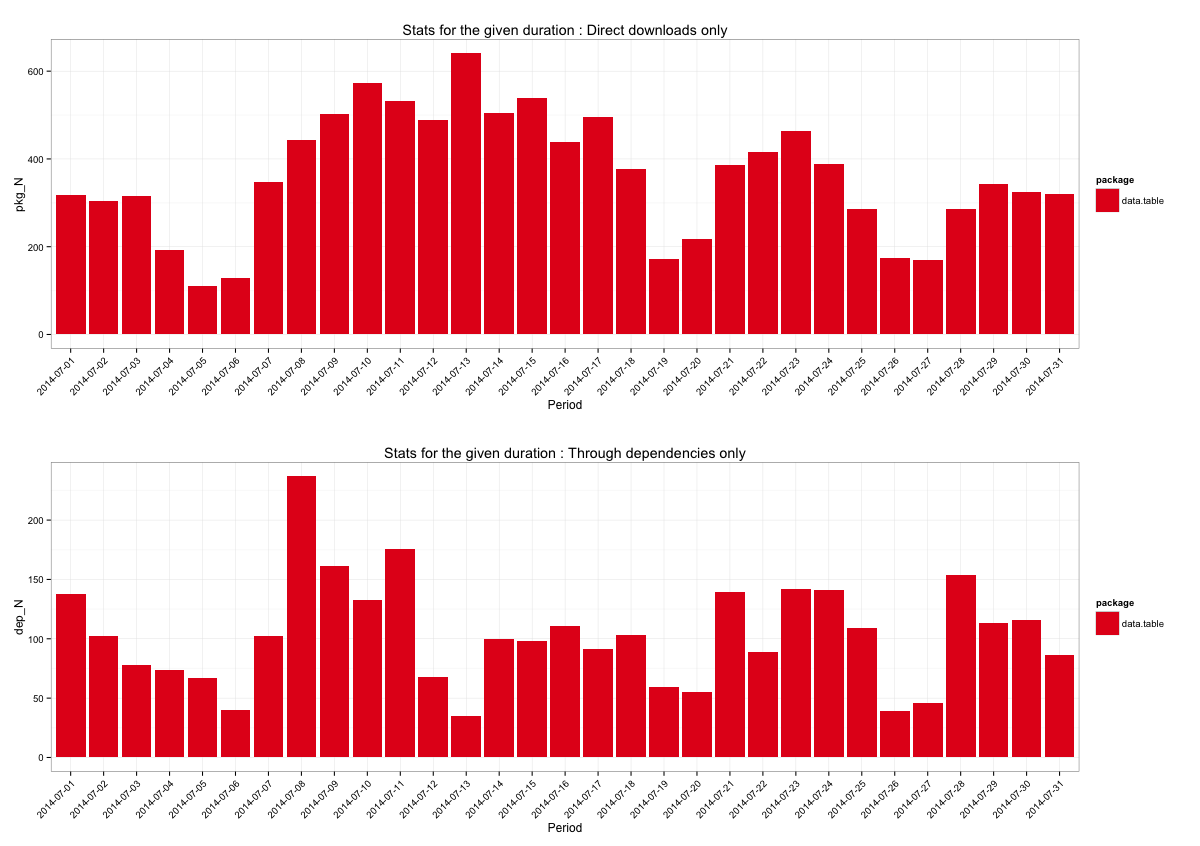
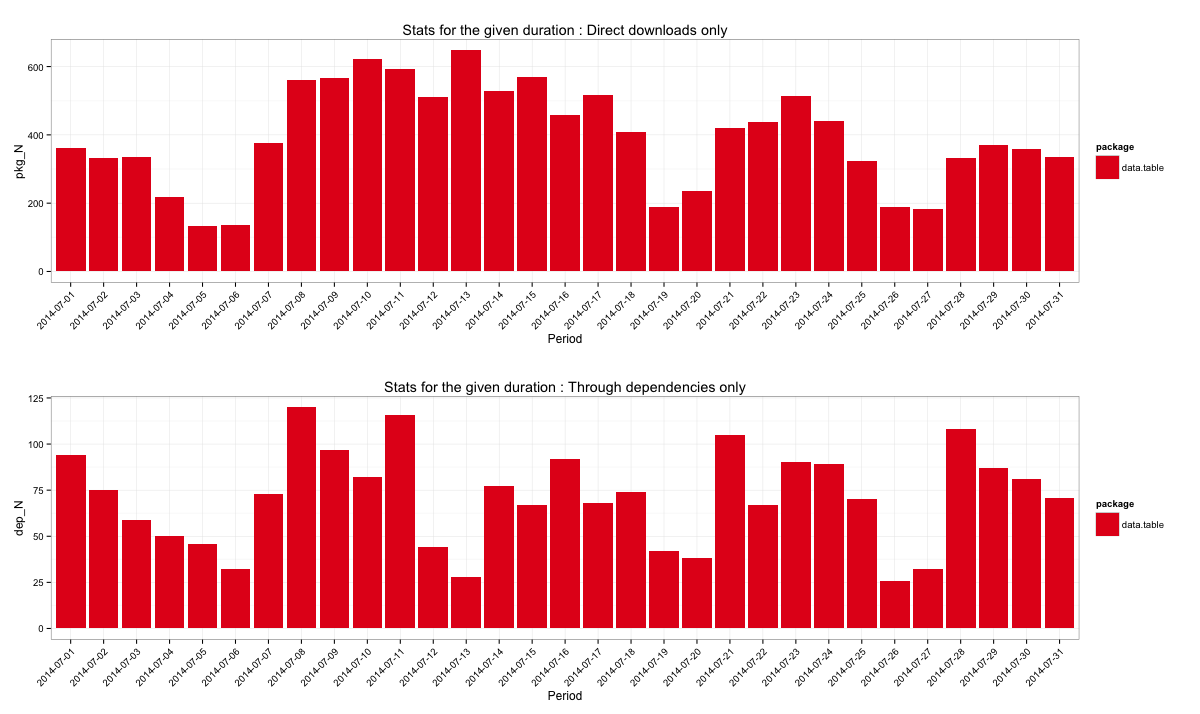
Updated examples

diff --git a/README.md b/README.md
@@ -63,37 +63,37 @@ Have a look at `?stats_logs` for more info. Let's get the *daily* download stats
 ```R
 dt_s = stats_logs(dt, type="daily")
 #        package        key tot_N dep_N
-#  1: data.table 2014-07-01   456   138
-#  2: data.table 2014-07-02   406   102
-#  3: data.table 2014-07-03   393    78
-#  4: data.table 2014-07-04   267    74
-#  5: data.table 2014-07-05   178    67
-#  6: data.table 2014-07-06   169    40
-#  7: data.table 2014-07-07   450   102
-#  8: data.table 2014-07-08   680   237
-#  9: data.table 2014-07-09   663   161
-# 10: data.table 2014-07-10   705   133
-# 11: data.table 2014-07-11   709   176
-# 12: data.table 2014-07-12   556    68
-# 13: data.table 2014-07-13   676    35
-# 14: data.table 2014-07-14   605   100
-# 15: data.table 2014-07-15   637    98
-# 16: data.table 2014-07-16   549   111
-# 17: data.table 2014-07-17   586    91
-# 18: data.table 2014-07-18   481   103
-# 19: data.table 2014-07-19   230    59
-# 20: data.table 2014-07-20   273    55
-# 21: data.table 2014-07-21   525   139
-# 22: data.table 2014-07-22   504    89
-# 23: data.table 2014-07-23   605   142
-# 24: data.table 2014-07-24   530   141
-# 25: data.table 2014-07-25   394   109
-# 26: data.table 2014-07-26   214    39
-# 27: data.table 2014-07-27   215    46
-# 28: data.table 2014-07-28   440   154
-# 29: data.table 2014-07-29   456   113
-# 30: data.table 2014-07-30   440   116
-# 31: data.table 2014-07-31   405    86
+#  1: data.table 2014-07-01   456    94
+#  2: data.table 2014-07-02   406    75
+#  3: data.table 2014-07-03   393    59
+#  4: data.table 2014-07-04   267    50
+#  5: data.table 2014-07-05   178    46
+#  6: data.table 2014-07-06   169    32
+#  7: data.table 2014-07-07   450    73
+#  8: data.table 2014-07-08   680   120
+#  9: data.table 2014-07-09   663    97
+# 10: data.table 2014-07-10   705    82
+# 11: data.table 2014-07-11   709   116
+# 12: data.table 2014-07-12   556    44
+# 13: data.table 2014-07-13   676    28
+# 14: data.table 2014-07-14   605    77
+# 15: data.table 2014-07-15   637    67
+# 16: data.table 2014-07-16   549    92
+# 17: data.table 2014-07-17   586    68
+# 18: data.table 2014-07-18   481    74
+# 19: data.table 2014-07-19   230    42
+# 20: data.table 2014-07-20   273    38
+# 21: data.table 2014-07-21   525   105
+# 22: data.table 2014-07-22   504    67
+# 23: data.table 2014-07-23   605    90
+# 24: data.table 2014-07-24   530    89
+# 25: data.table 2014-07-25   394    70
+# 26: data.table 2014-07-26   214    26
+# 27: data.table 2014-07-27   215    32
+# 28: data.table 2014-07-28   440   108
+# 29: data.table 2014-07-29   456    87
+# 30: data.table 2014-07-30   440    81
+# 31: data.table 2014-07-31   405    71
 #        package        key tot_N dep_N
 ```
 
